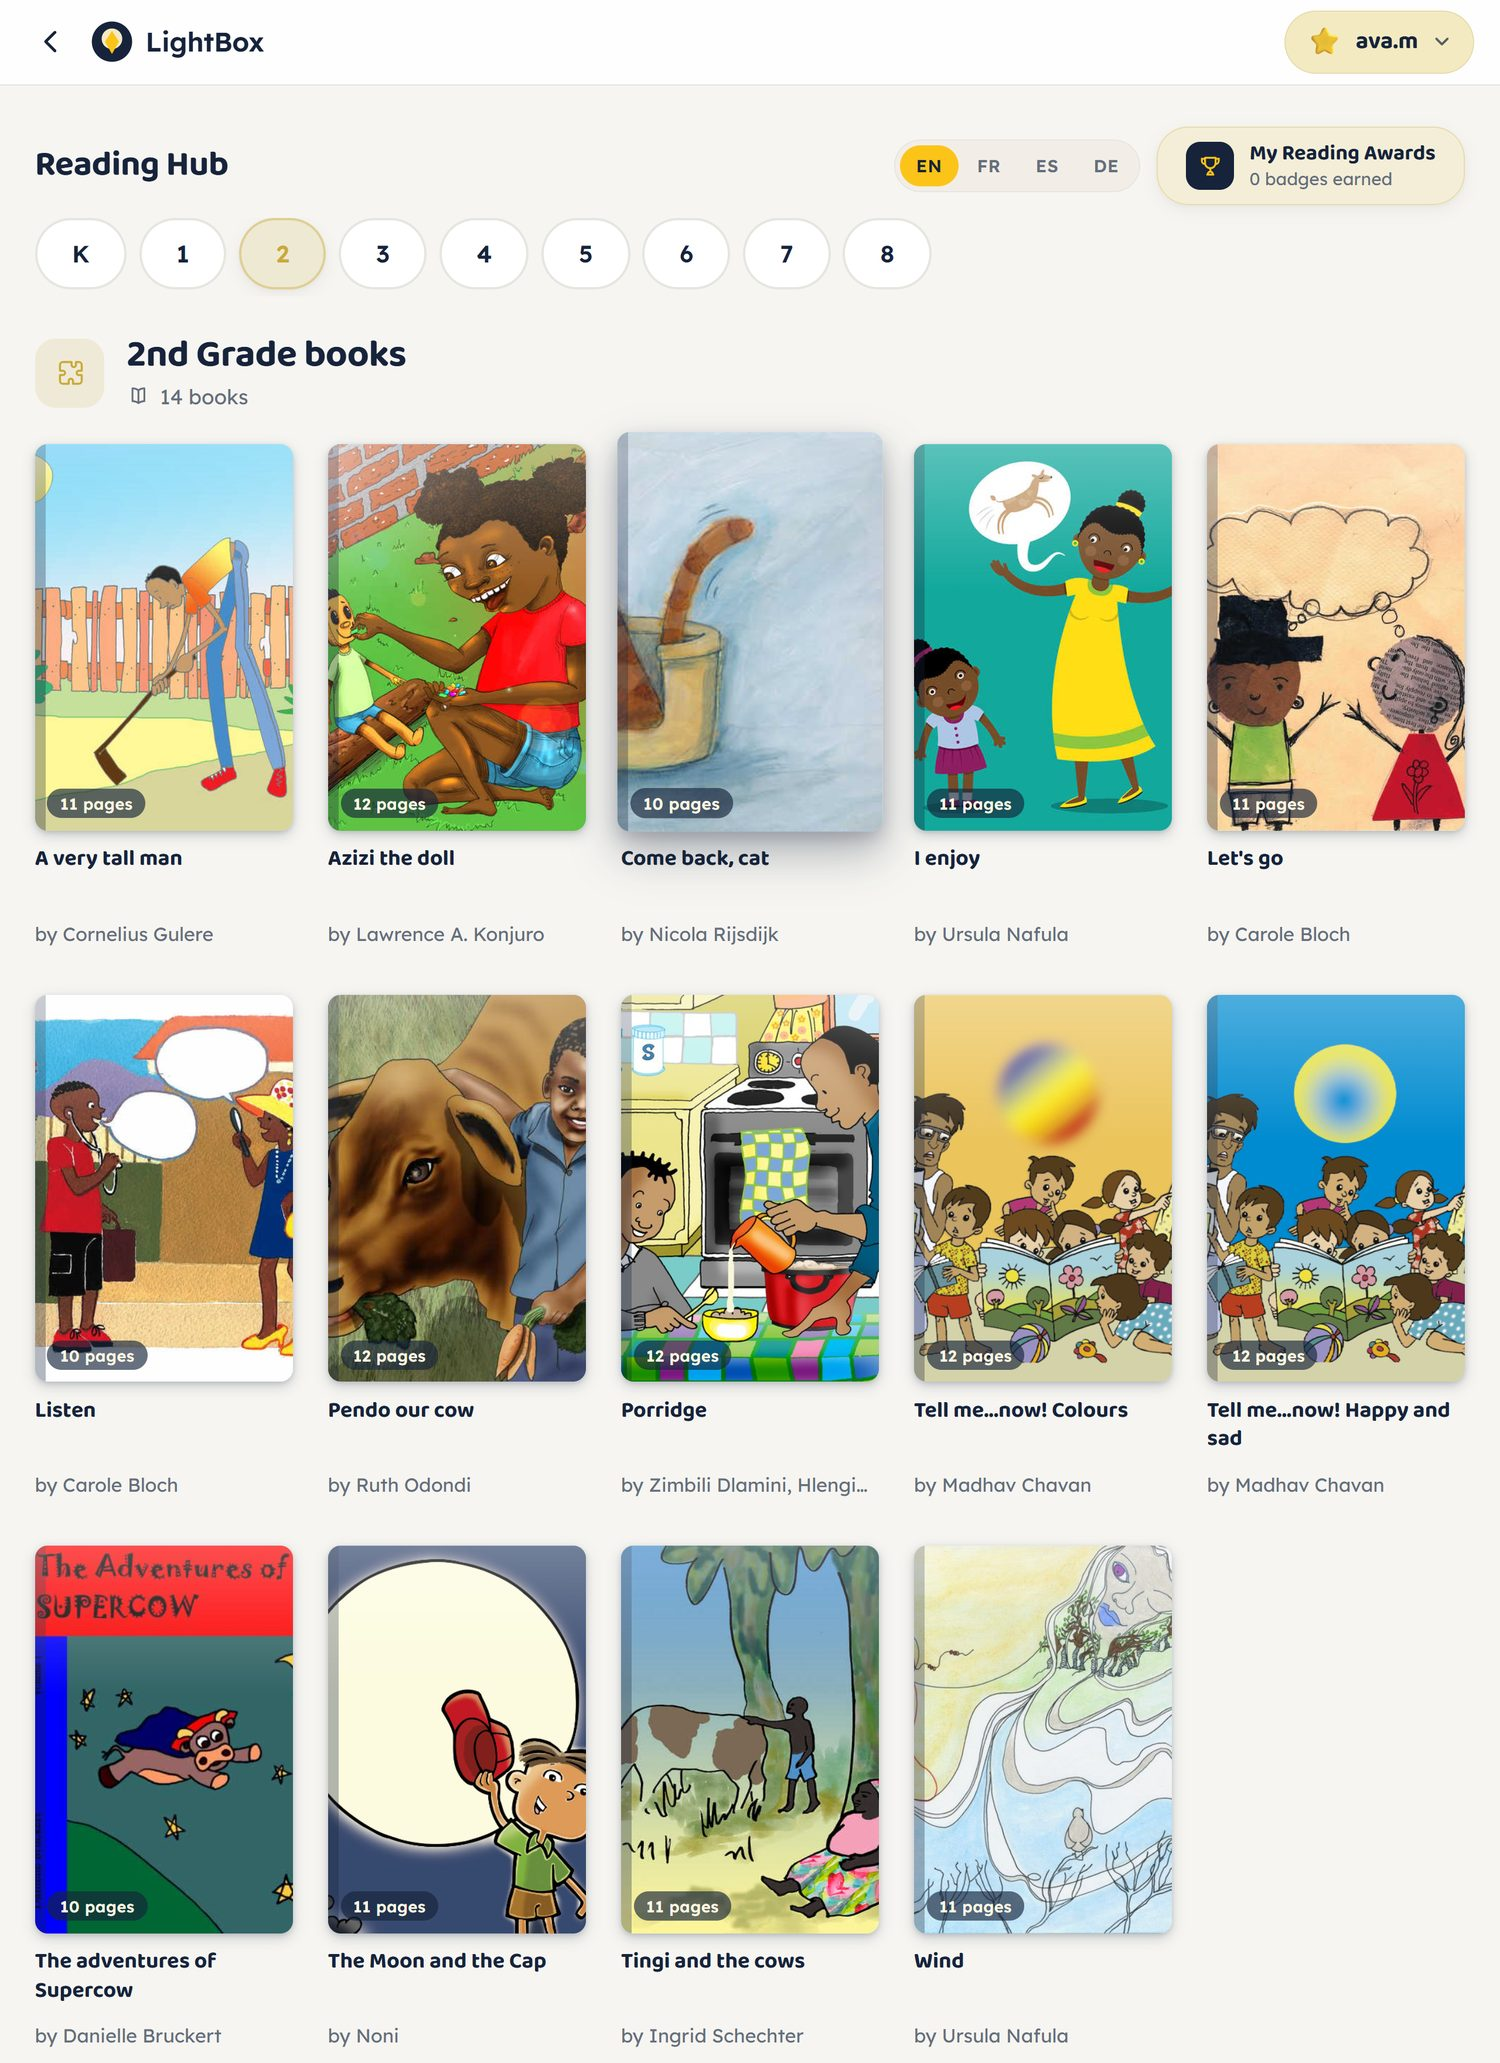
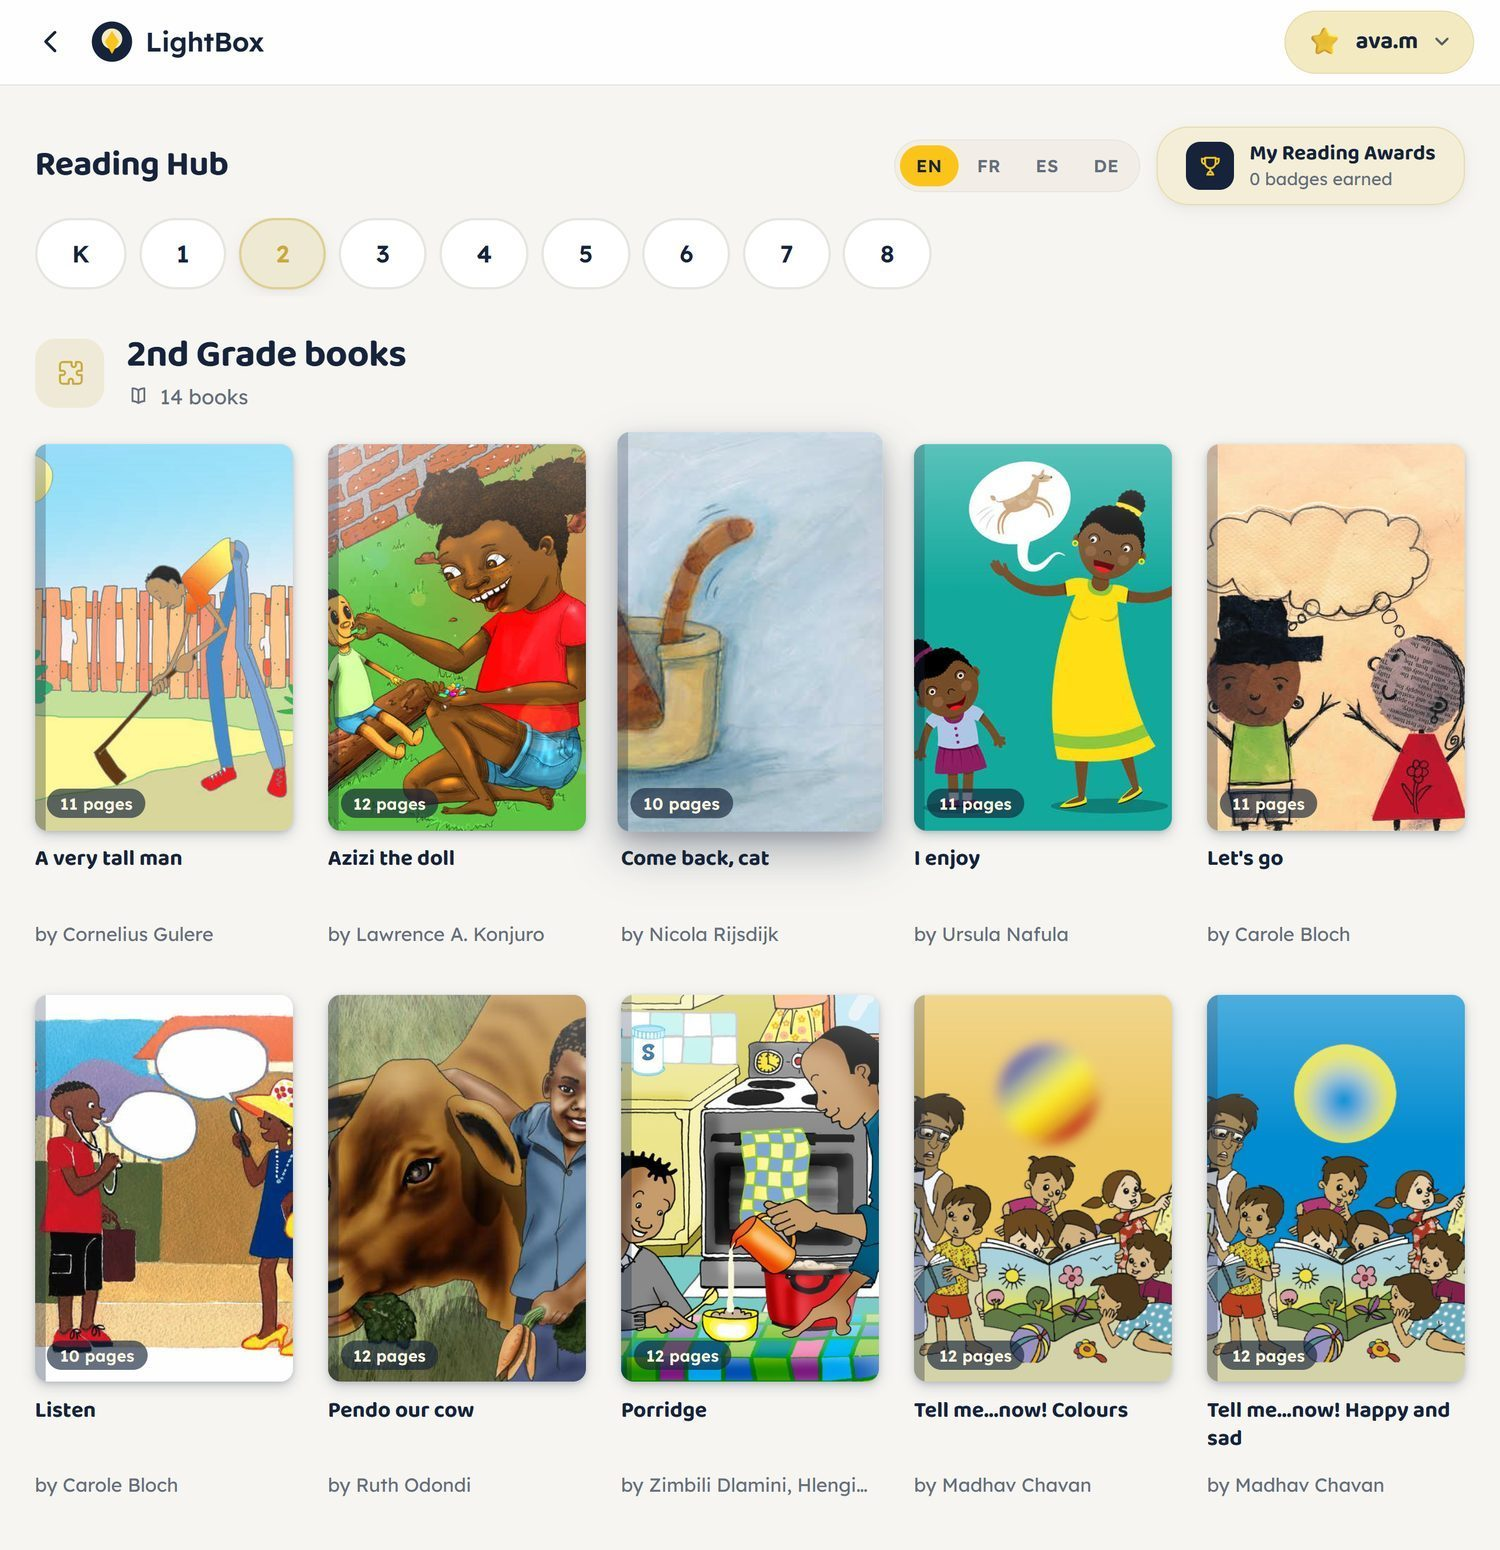
Tighten the screenshots
The welcome screenshot had a large blank area above the logo, so it is cropped
to start just above it.

The Reading Hub screenshot showed three rows of books and was very tall. It now
shows two rows, with a little space under the last row of names.

Removes the grade selector screenshot from the lessons section. Browsing goes
straight to the topic list and the lesson itself.

diff --git a/README.md b/README.md
@@ -210,8 +210,6 @@ downloaded yet. See "Lesson videos" above.
 
 ![The maths area, showing the next lesson and the main sections](docs/assets/screenshots/maths-home.png)
 
-![Browsing lessons by grade](docs/assets/screenshots/lesson-browser.png)
-
 ![Lessons inside a grade, grouped by topic](docs/assets/screenshots/lesson-topics.png)
 
 ![A lesson playing, with the question box and quiz beside it](docs/assets/screenshots/video-player.png)
